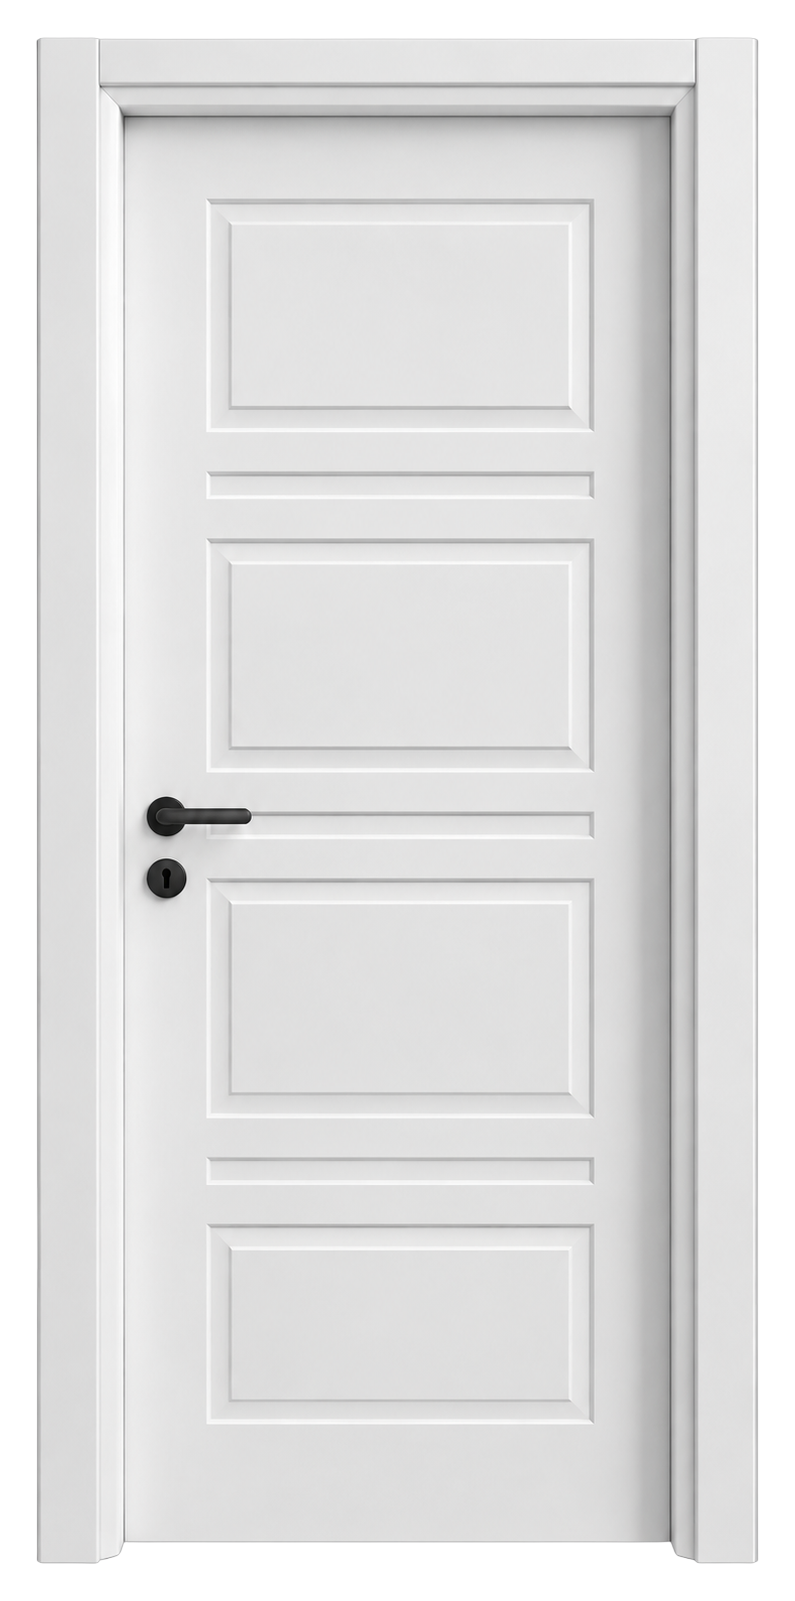
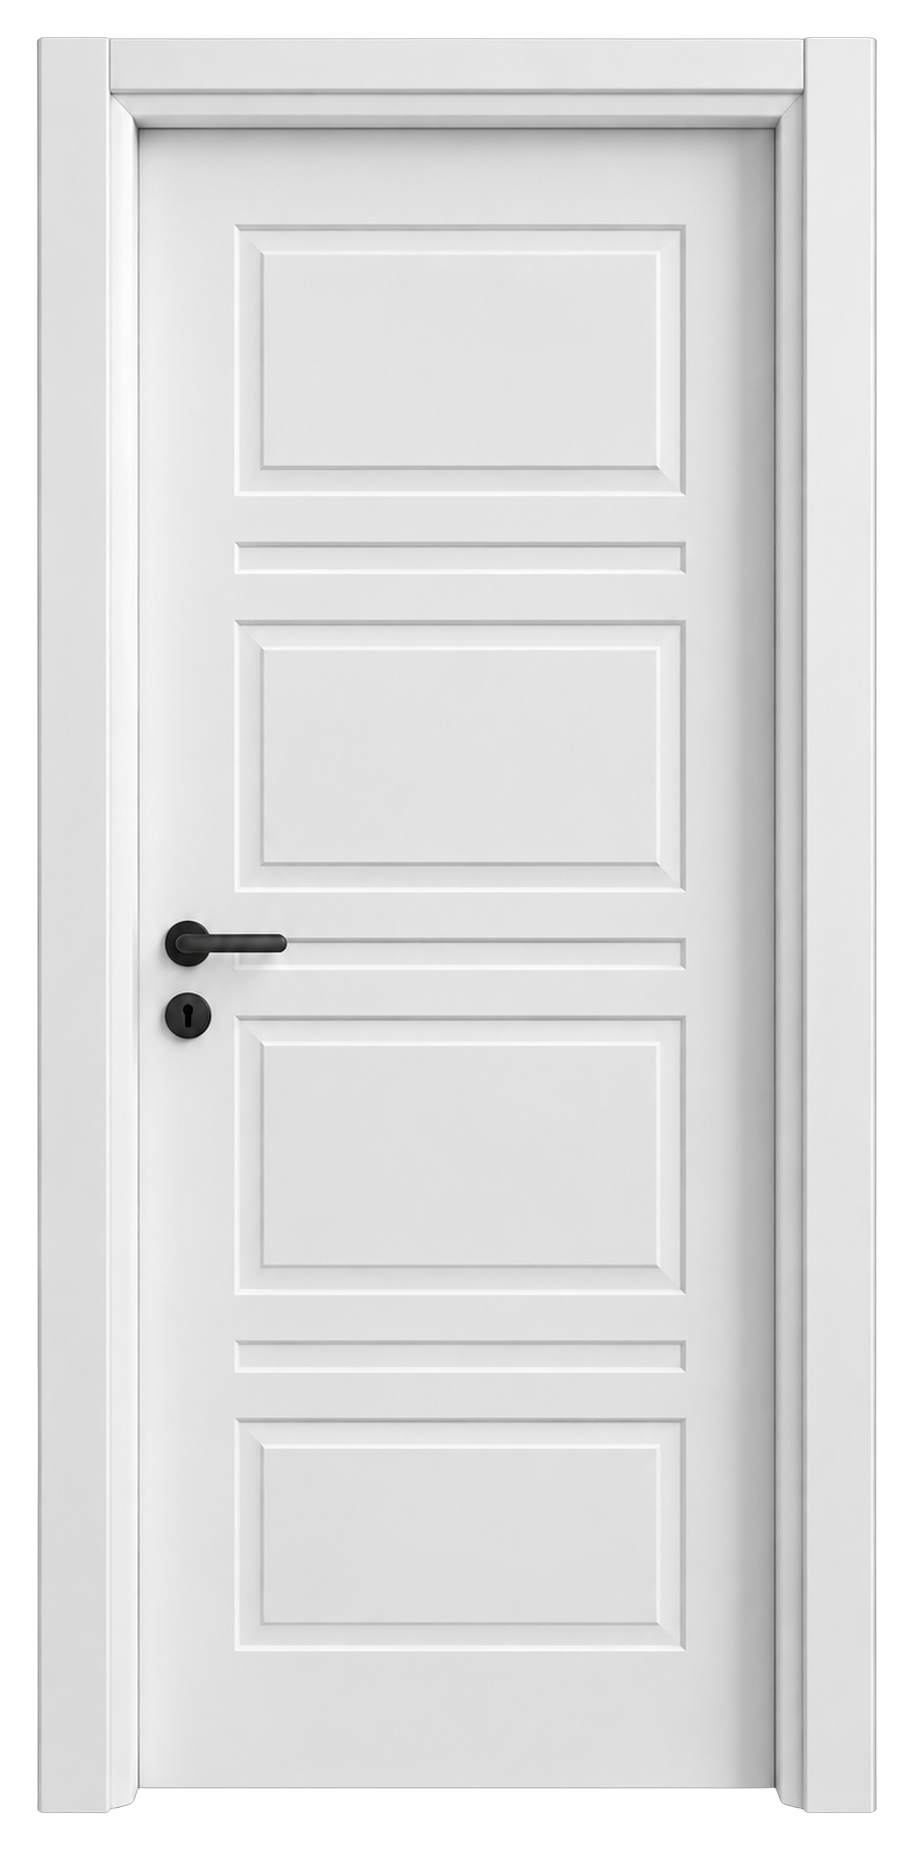
istekler

diff --git a/src/components/common/ContactButton.jsx b/src/components/common/ContactButton.jsx
@@ -1,0 +1,221 @@
+import { useEffect, useId, useRef, useState } from 'react'
+import styled from '@emotion/styled'
+
+const phoneNumber = '+905333610068'
+
+const Trigger = styled.button`
+  position: fixed;
+  right: max(24px, calc(env(safe-area-inset-right) + 16px));
+  bottom: max(24px, calc(env(safe-area-inset-bottom) + 16px));
+  z-index: 40;
+  display: grid;
+  place-items: center;
+  width: 56px;
+  height: 56px;
+  padding: 0;
+  border: 1px solid rgba(255, 255, 255, .22);
+  border-radius: 50%;
+  color: ${({ theme }) => theme.colors.white};
+  background: ${({ theme }) => theme.colors.primary};
+  box-shadow: 0 6px 24px rgba(23, 28, 25, .2), 0 0 0 4px rgba(255, 255, 255, .8);
+  transition: transform 180ms ease, background 180ms ease;
+
+  @media (hover: hover) {
+    &:hover { transform: translateY(-2px); background: ${({ theme }) => theme.colors.primaryDark}; }
+  }
+  &:focus-visible { outline: 3px solid ${({ theme }) => theme.colors.text}; outline-offset: 6px; }
+  @media (max-width: ${({ theme }) => theme.breakpoints.mobile}) {
+    right: max(18px, calc(env(safe-area-inset-right) + 14px));
+    bottom: max(18px, calc(env(safe-area-inset-bottom) + 14px));
+    width: 52px;
+    height: 52px;
+  }
+  @media (prefers-reduced-motion: reduce) { transition: none; }
+`
+
+const Dialog = styled.dialog`
+  position: fixed;
+  inset: 0;
+  width: min(440px, calc(100% - 32px));
+  max-height: calc(100dvh - 32px);
+  margin: auto;
+  padding: 32px;
+  overflow-y: auto;
+  border: 1px solid ${({ theme }) => theme.colors.border};
+  border-radius: 20px;
+  color: ${({ theme }) => theme.colors.text};
+  background: ${({ theme }) => theme.colors.white};
+  font-family: ${({ theme }) => theme.fonts.body};
+  box-shadow: 0 24px 80px rgba(0, 0, 0, .18);
+
+  &::backdrop { background: rgba(23, 28, 25, .46); backdrop-filter: blur(4px); }
+  @media (max-width: ${({ theme }) => theme.breakpoints.mobile}) {
+    inset: auto 0 max(16px, env(safe-area-inset-bottom));
+    max-height: calc(100dvh - 48px - env(safe-area-inset-bottom));
+    margin: 0 auto;
+    padding: 28px 22px 22px;
+  }
+`
+
+const CloseButton = styled.button`
+  position: absolute;
+  top: 12px;
+  right: 12px;
+  display: grid;
+  place-items: center;
+  width: 40px;
+  height: 40px;
+  padding: 0;
+  border: 0;
+  border-radius: 50%;
+  color: ${({ theme }) => theme.colors.textMuted};
+  background: transparent;
+  &:hover { background: ${({ theme }) => theme.colors.surfaceMuted}; }
+  &:focus-visible { outline: 2px solid ${({ theme }) => theme.colors.primary}; outline-offset: 2px; }
+`
+
+const Kicker = styled.p`
+  margin: 0 44px 16px 0;
+  color: ${({ theme }) => theme.colors.textMuted};
+  font-size: .68rem;
+  font-weight: 700;
+  letter-spacing: .14em;
+  text-transform: uppercase;
+`
+
+const Title = styled.h2`
+  margin: 0 0 12px;
+  max-width: 320px;
+  font-size: clamp(1.5rem, 5vw, 1.8rem);
+  font-weight: 650;
+  letter-spacing: -.045em;
+  line-height: 1.18;
+`
+
+const Description = styled.p`
+  margin: 0 0 26px;
+  color: ${({ theme }) => theme.colors.textMuted};
+  font-size: .88rem;
+  line-height: 1.7;
+`
+
+const Options = styled.div`display: grid; gap: 12px;`
+
+const Option = styled.a`
+  display: flex;
+  align-items: center;
+  gap: 14px;
+  min-height: 84px;
+  padding: 16px;
+  border: 1px solid ${({ theme }) => theme.colors.border};
+  border-radius: 12px;
+  background: ${({ theme }) => theme.colors.surface};
+  transition: border-color 160ms ease, background 160ms ease;
+  &:hover { border-color: ${({ theme }) => theme.colors.primary}; background: ${({ theme }) => theme.colors.surfaceMuted}; }
+  &:focus-visible { outline: 2px solid ${({ theme }) => theme.colors.primary}; outline-offset: 3px; }
+  & > svg:last-child { margin-left: auto; flex-shrink: 0; color: ${({ theme }) => theme.colors.textMuted}; }
+  @media (prefers-reduced-motion: reduce) { transition: none; }
+`
+
+const IconBox = styled.span`
+  display: grid;
+  place-items: center;
+  flex-shrink: 0;
+  width: 42px;
+  height: 42px;
+  border-radius: 12px;
+  color: ${({ theme }) => theme.colors.primary};
+  background: ${({ theme }) => theme.colors.surfaceMuted};
+`
+
+const Label = styled.span`
+  display: grid;
+  gap: 6px;
+  strong { font-size: .92rem; font-weight: 650; line-height: 1.3; }
+  span { font-size: .76rem; line-height: 1.5; color: ${({ theme }) => theme.colors.textMuted}; }
+`
+
+const Signature = styled.p`
+  margin: 24px 0 0;
+  padding-top: 18px;
+  border-top: 1px solid ${({ theme }) => theme.colors.border};
+  color: ${({ theme }) => theme.colors.textMuted};
+  font-size: .7rem;
+  letter-spacing: .02em;
+`
+
+function Icon({ name, size = 24 }) {
+  return (
+    <svg width={size} height={size} viewBox="0 0 24 24" fill="none" stroke="currentColor" strokeWidth="1.6" strokeLinecap="round" strokeLinejoin="round" aria-hidden="true" focusable="false">
+      {name === 'message' && <><path d="M21 11.5a8.5 8.5 0 0 1-8.5 8.5 9.2 9.2 0 0 1-4-.9L3 21l1.9-5.5a9.2 9.2 0 0 1-.9-4A8.5 8.5 0 0 1 12.5 3h.5a8.5 8.5 0 0 1 8 8v.5Z" /><path d="M8 10h9M8 14h5" /></>}
+      {name === 'whatsapp' && <><path d="M20.5 11.7a8.5 8.5 0 0 1-12.6 7.5L3 21l1.7-5a8.5 8.5 0 1 1 15.8-4.3Z" /><path d="m9 7-1 1c-.6 2.7 3.3 6.6 6 6l1-1-2-1-.7.7a6.1 6.1 0 0 1-2-2L11 10 9 7Z" /></>}
+      {name === 'phone' && <path d="m7 3 3 5-2 2a15 15 0 0 0 6 6l2-2 5 3v3a1 1 0 0 1-1 1C10.6 21 3 13.4 3 4a1 1 0 0 1 1-1h3Z" />}
+      {name === 'close' && <path d="m6 6 12 12M18 6 6 18" />}
+      {name === 'arrow' && <path d="M5 12h14m-5-5 5 5-5 5" />}
+    </svg>
+  )
+}
+
+export function ContactButton() {
+  const [open, setOpen] = useState(false)
+  const dialogRef = useRef(null)
+  const id = useId()
+
+  useEffect(() => {
+    if (!open) return undefined
+    const previousOverflow = document.body.style.overflow
+    document.body.style.overflow = 'hidden'
+    return () => { document.body.style.overflow = previousOverflow }
+  }, [open])
+
+  const close = () => dialogRef.current?.close()
+  const show = () => {
+    dialogRef.current.showModal()
+    setOpen(true)
+  }
+  const dismissBackdrop = (event) => {
+    if (event.target !== event.currentTarget) return
+    const rect = event.currentTarget.getBoundingClientRect()
+    if (event.clientX < rect.left || event.clientX > rect.right || event.clientY < rect.top || event.clientY > rect.bottom) close()
+  }
+  const keepFocusInDialog = (event) => {
+    if (event.key !== 'Tab') return
+    const controls = event.currentTarget.querySelectorAll('button:not(:disabled), a[href]')
+    const first = controls[0]
+    const last = controls[controls.length - 1]
+    if (event.shiftKey && document.activeElement === first) {
+      event.preventDefault()
+      last.focus()
+    } else if (!event.shiftKey && document.activeElement === last) {
+      event.preventDefault()
+      first.focus()
+    }
+  }
+
+  return (
+    <>
+      <Trigger type="button" aria-label="İletişim seçeneklerini aç" aria-haspopup="dialog" aria-controls={id} aria-expanded={open} title="Bizimle iletişime geçin" onClick={show}>
+        <Icon name="message" size={26} />
+      </Trigger>
+      <Dialog ref={dialogRef} id={id} aria-labelledby={`${id}-title`} aria-describedby={`${id}-description`} onClose={() => setOpen(false)} onClick={dismissBackdrop} onKeyDown={keepFocusInDialog}>
+        <CloseButton type="button" aria-label="İletişim penceresini kapat" onClick={close}><Icon name="close" size={20} /></CloseButton>
+        <Kicker>Bizimle iletişime geçin</Kicker>
+        <Title id={`${id}-title`}>Nasıl iletişim kurmak istersiniz?</Title>
+        <Description id={`${id}-description`}>Kapı modelleri ve talepleriniz için bize ulaşın.</Description>
+        <Options>
+          <Option href={`https://wa.me/${phoneNumber.slice(1)}`} target="_blank" rel="noopener noreferrer" onClick={close}>
+            <IconBox><Icon name="whatsapp" /></IconBox>
+            <Label><strong>WhatsApp’tan yazın</strong><span>Mesaj göndererek iletişime geçin.</span></Label>
+            <Icon name="arrow" size={18} />
+          </Option>
+          <Option href={`tel:${phoneNumber}`} onClick={close}>
+            <IconBox><Icon name="phone" /></IconBox>
+            <Label><strong>Telefonla arayın</strong><span>0533 361 00 68 · Cemil Sarıoğlu</span></Label>
+            <Icon name="arrow" size={18} />
+          </Option>
+        </Options>
+        <Signature>Sarıoğlu Orman Ürünleri</Signature>
+      </Dialog>
+    </>
+  )
+}

diff --git a/src/components/layout/Header.jsx b/src/components/layout/Header.jsx
@@ -13,13 +13,25 @@ const HeaderBar = styled.header`
 `
 const Inner = styled(Container)`min-height: 70px; display: flex; align-items: center; justify-content: space-between; gap: 24px;`
 const Brand = styled(Link)`
-  display: flex;
-  align-items: baseline;
-  gap: 9px;
-  font-size: 1.02rem;
-  font-weight: 750;
-  letter-spacing: -.025em;
-  span { font-size: .69rem; font-weight: 600; letter-spacing: .08em; text-transform: uppercase; color: ${({ theme }) => theme.colors.textMuted}; }
+  display: inline-flex;
+  flex-direction: column;
+  align-items: flex-start;
+  flex-shrink: 0;
+  gap: 4px;
+  font-family: ${({ theme }) => theme.fonts.display};
+  font-size: clamp(1.25rem, 2.1vw, 1.6rem);
+  line-height: 1.05;
+  font-weight: 800;
+  letter-spacing: -.035em;
+  color: ${({ theme }) => theme.colors.primaryDark};
+  span {
+    font-size: .72rem;
+    line-height: 1.3;
+    font-weight: 700;
+    letter-spacing: .09em;
+    text-transform: uppercase;
+    color: ${({ theme }) => theme.colors.primary};
+  }
 `
 const Nav = styled.nav`
   display: flex; align-items: center; gap: 28px;
@@ -34,5 +46,5 @@ const MenuButton = styled.button`display: none; border: 0; background: transpare
 
 export function Header() {
   const [open, setOpen] = useState(false)
-  return <HeaderBar><Inner><Brand to="/" onClick={() => setOpen(false)}>Sarıoğlu <span>Orman Ürünleri</span></Brand><MenuButton onClick={() => setOpen((value) => !value)} aria-label="Menüyü aç veya kapat">Menü</MenuButton><Nav open={open}>{navigationItems.map((item) => <NavLink key={item.label} to={item.to} hash={item.hash} onClick={() => setOpen(false)}>{item.label}</NavLink>)}</Nav></Inner></HeaderBar>
+  return <HeaderBar><Inner><Brand to="/" onClick={() => setOpen(false)}>SARIOĞLU <span>Orman Ürünleri</span></Brand><MenuButton onClick={() => setOpen((value) => !value)} aria-label="Menüyü aç veya kapat">Menü</MenuButton><Nav open={open}>{navigationItems.map((item) => <NavLink key={item.label} to={item.to} hash={item.hash} onClick={() => setOpen(false)}>{item.label}</NavLink>)}</Nav></Inner></HeaderBar>
 }

diff --git a/src/routes/iletisim.jsx b/src/routes/iletisim.jsx
@@ -17,5 +17,5 @@ const Card = styled.div`padding: 30px; border-radius: ${({ theme }) => theme.rad
 const Item = styled.div`display: grid; gap: 7px; span { color: ${({ theme }) => theme.colors.textMuted}; font-size: .76rem; font-weight: 800; letter-spacing: .12em; text-transform: uppercase; } strong, a { font-size: 1.05rem; line-height: 1.6; }`
 
 function ContactPage() {
-  return <Section><Grid><div><Title>Bizimle iletişime geçin.</Title><Text>Kapı modelleri, proje talepleri ve üretim hakkında bilgi almak için telefon, e-posta veya WhatsApp üzerinden bize ulaşabilirsiniz.</Text><AnchorButton href="https://wa.me/905333610068" target="_blank" rel="noreferrer">WhatsApp’tan Yazın</AnchorButton></div><Card><Item><span>Adres</span><strong>Harsat, 13. Sokak No:19, 37300 Tosya / Kastamonu</strong></Item><Item><span>Telefon</span><a href="tel:+905333610068">0533 361 00 68</a></Item><Item><span>E-posta</span><a href="mailto:ctufansarioglu@gmail.com">ctufansarioglu@gmail.com</a></Item></Card></Grid></Section>
+  return <Section><Grid><div><Title>Bizimle iletişime geçin.</Title><Text>Kapı modelleri, proje talepleri ve üretim hakkında bilgi almak için telefon, e-posta veya WhatsApp üzerinden bize ulaşabilirsiniz.</Text><AnchorButton href="https://wa.me/905333610068" target="_blank" rel="noreferrer">WhatsApp’tan Yazın</AnchorButton></div><Card><Item><span>Adres</span><strong>Harsat, 13. Sokak No:19, 37300 Tosya / Kastamonu</strong></Item><Item><span>Telefon</span><a href="tel:+905333610068">0533 361 00 68 (Cemil Sarıoğlu)</a></Item><Item><span>E-posta</span><a href="mailto:ctufansarioglu@gmail.com">ctufansarioglu@gmail.com</a></Item></Card></Grid></Section>
 }

diff --git a/src/components/layout/Footer.jsx b/src/components/layout/Footer.jsx
@@ -12,5 +12,5 @@ const List = styled.div`display: grid; gap: 11px; color: rgba(255,255,255,.75); 
 const Bottom = styled(Container)`margin-top: 46px; padding-top: 22px; border-top: 1px solid rgba(255,255,255,.12); color: rgba(255,255,255,.4); font-size: .76rem;`
 
 export function Footer() {
-  return <FooterWrap><Grid><div><Brand>Sarıoğlu Orman Ürünleri</Brand><Text>Ahşap doğrama, Amerikan panel, lake, melamin ve PVC kapı üretimi.</Text></div><div><Title>Kapı Modelleri</Title><List>{categories.map((category) => <Link key={category.slug} to={`/${category.slug}`}>{category.shortName}</Link>)}</List></div><div><Title>İletişim</Title><List><span>Harsat, 13. Sokak No:19, Tosya / Kastamonu</span><a href="tel:+905333610068">0533 361 00 68</a><a href="mailto:ctufansarioglu@gmail.com">ctufansarioglu@gmail.com</a></List></div></Grid><Bottom>© {import.meta.env.BUILD_YEAR} Sarıoğlu Orman Ürünleri</Bottom></FooterWrap>
+  return <FooterWrap><Grid><div><Brand>Sarıoğlu Orman Ürünleri</Brand><Text>Ahşap doğrama, Amerikan panel, lake, melamin ve PVC kapı üretimi.</Text></div><div><Title>Kapı Modelleri</Title><List>{categories.map((category) => <Link key={category.slug} to={`/${category.slug}`}>{category.shortName}</Link>)}</List></div><div><Title>İletişim</Title><List><span>Harsat, 13. Sokak No:19, Tosya / Kastamonu</span><a href="tel:+905333610068">0533 361 00 68 (Cemil Sarıoğlu)</a><a href="mailto:sariogluormanurunleri@gmail.com">sariogluormanurunleri@gmail.com</a></List></div></Grid><Bottom>© {import.meta.env.BUILD_YEAR} Sarıoğlu Orman Ürünleri</Bottom></FooterWrap>
 }

diff --git a/src/layouts/SiteLayout.jsx b/src/layouts/SiteLayout.jsx
@@ -2,6 +2,7 @@ import styled from '@emotion/styled'
 import { Outlet } from '@tanstack/react-router'
 import { Header } from '../components/layout/Header'
 import { Footer } from '../components/layout/Footer'
+import { ContactButton } from '../components/common/ContactButton'
 
 const Page = styled.div`
   min-height: 100vh;
@@ -23,6 +24,7 @@ export function SiteLayout() {
         <Outlet />
       </Main>
       <Footer />
+      <ContactButton />
     </Page>
   )
 }
